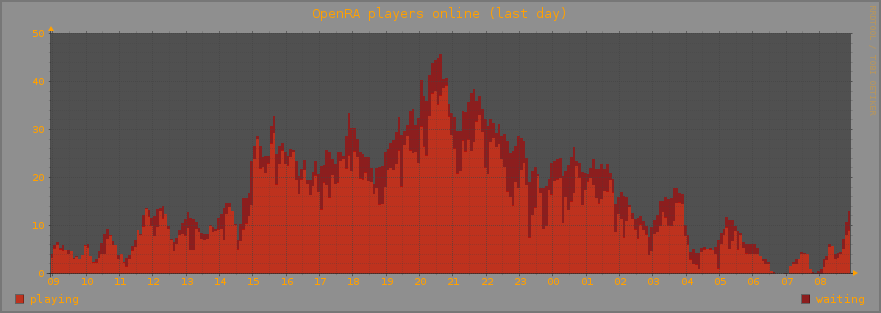
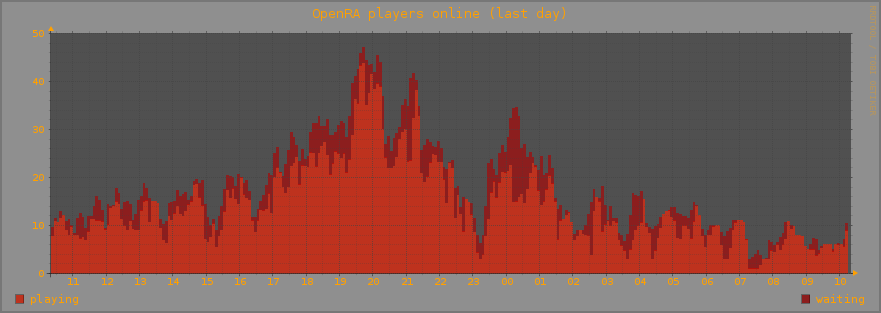
update db

Changed region(s): [[0.0306, 0.1725, 0.9807, 0.9201]]

diff --git a/log/redraw.ts b/log/redraw.ts
@@ -1,1 +1,1 @@
-2015-07-31 08:55:06
+2015-08-12 10:19:07
